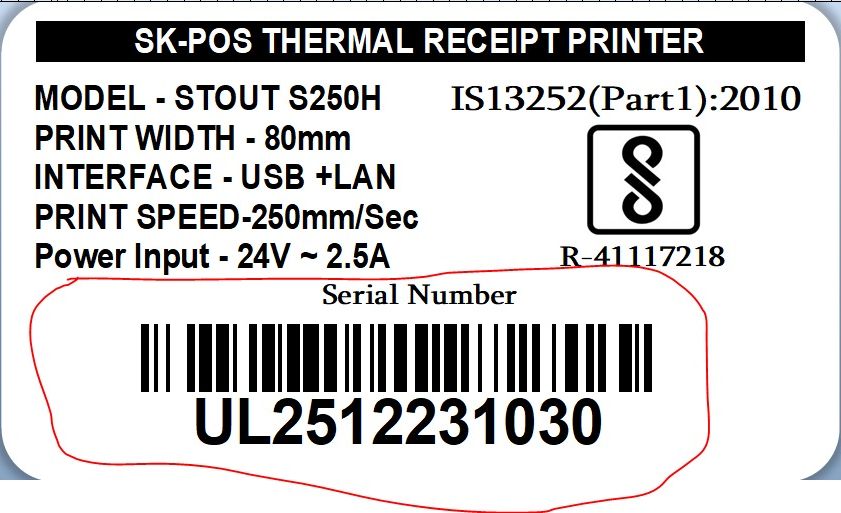
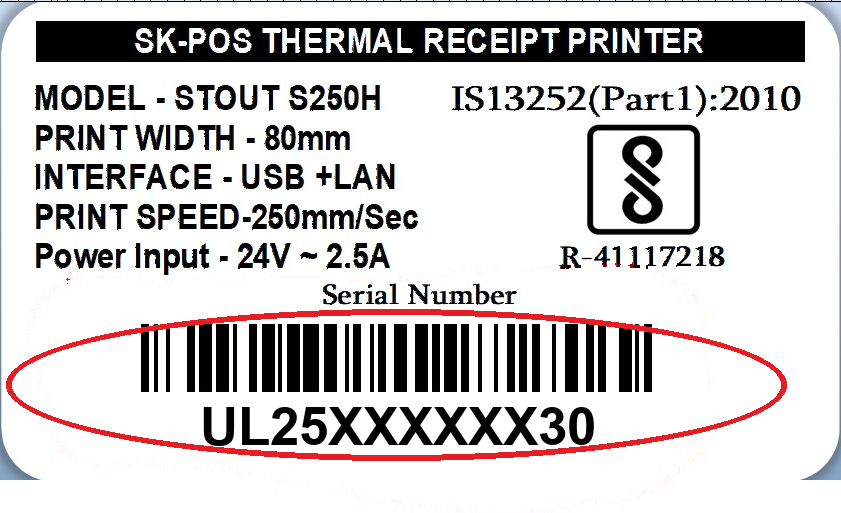
fix: mask the sample serials and redraw the circles cleanly
The sample labels published two real device serials and carried the
freehand marker circle from the original photos.

- Serials are re-rendered with their middle masked (UL25XXXXXX30,
  2026XXXXX17), so the alphanumeric shape still reads — two letters plus
  ten digits on printers, all digits on POS systems — without publishing a
  real device's number. The whole serial line is redrawn rather than
  patched, so the masked characters share the digits' size and baseline.
- The freehand circle is erased (nearest-neighbour inpaint, two passes to
  catch the pale halo) and replaced with a geometric ellipse sized to clear
  the barcode's corners, kept clear of the surrounding label text.
- Real serials removed from the alt text, and the field placeholder no
  longer carries one either.

Claude-Session: https://claude.ai/code/session_01QWXwsx9uBfgJmzz8MsSeYd

diff --git a/components/serial-number-help.tsx b/components/serial-number-help.tsx
@@ -30,8 +30,8 @@ const SAMPLES: Sample[] = [
     label: "Thermal receipt printer",
     alt:
       "Label on an SK-POS thermal receipt printer. The serial number is on the " +
-      "lower half, under the barcode, and starts with letters — for example " +
-      "UL2512231030.",
+      "lower half, under the barcode: two letters followed by ten digits. " +
+      "It is partly masked in this example.",
   },
   {
     src: "/serial-help/touch-pos-label.png",
@@ -40,8 +40,8 @@ const SAMPLES: Sample[] = [
     label: "Touch POS system",
     alt:
       "Label on an SK-POS Mighty Series touch POS system. The serial number is " +
-      "on the right, under the barcode, and is all digits — for example " +
-      "20260328117.",
+      "on the right, under the barcode, and is all digits. It is partly masked " +
+      "in this example.",
   },
 ];
 
@@ -60,7 +60,8 @@ export function SerialNumberHelp() {
       <p className="text-[12.5px] leading-relaxed text-ink-subtle">
         Can&apos;t find it? The serial number is printed on a sticker on the
         device — usually underneath or on the back. Look for the number under
-        the barcode, circled in red below.
+        the barcode, circled in red below. Enter it exactly as printed; the
+        middle characters are hidden in these examples.
       </p>
 
       <div className="mt-2.5 grid grid-cols-1 gap-2.5 sm:grid-cols-2">

diff --git a/components/ticket-form.tsx b/components/ticket-form.tsx
@@ -422,7 +422,7 @@ export function TicketForm({
                 </Label>
                 <Input
                   id="serial_number"
-                  placeholder="e.g. UL2512231030"
+                  placeholder="e.g. UL1234567890"
                   autoCapitalize="characters"
                   autoCorrect="off"
                   spellCheck={false}
